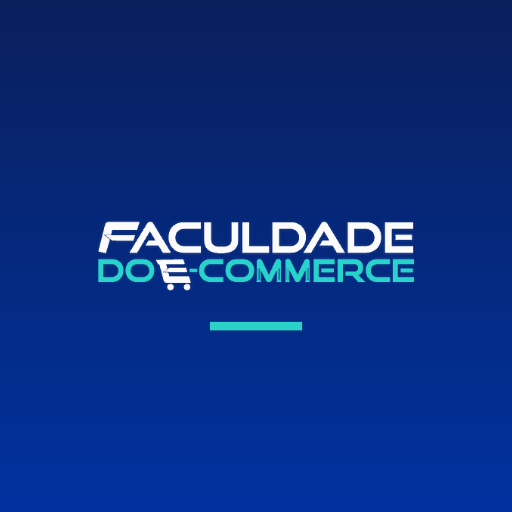
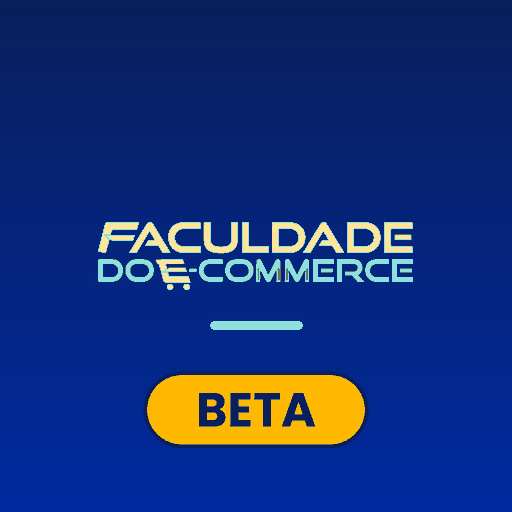
App fase 1: chamadas genericas do painel e icones BETA

Changed region(s): [[0.1875, 0.4062, 0.8125, 0.5625], [0.2812, 0.7188, 0.7188, 0.875], [0.4062, 0.625, 0.5938, 0.6562]]

diff --git a/index.html b/index.html
@@ -32,12 +32,13 @@ var META = '<meta name="viewport" content="width=device-width, initial-scale=1, 
 var SHIM = '<script>var API_FAECOM=' + JSON.stringify(API) + ';' +
   'function chamarApi_(a,x,ok,f){fetch(API_FAECOM,{method:"POST",body:JSON.stringify(Object.assign({acao:a},x))}).then(function(r){return r.json()}).then(function(j){if(j.ok)ok(j.r);else f(new Error(j.erro||"Erro"))}).catch(function(){f(new Error("Sem conexão com o servidor. Verifique a internet e tente de novo."))})}' +
   'function RunFaecom_(s,f){this.s=s||function(){};this.f=f||function(){}}' +
-  'RunFaecom_.prototype.withSuccessHandler=function(s){return new RunFaecom_(s,this.f)};' +
-  'RunFaecom_.prototype.withFailureHandler=function(f){return new RunFaecom_(this.s,f)};' +
   'RunFaecom_.prototype.login=function(u,p){chamarApi_("login",{u:u,p:p},this.s,this.f)};' +
   'RunFaecom_.prototype.atualizar=function(t){chamarApi_("atualizar",{t:t},this.s,this.f)};' +
   'RunFaecom_.prototype.salvarLogo=function(t,l,i,x){chamarApi_("salvarLogo",{t:t,lid:l,img:i,arq:x},this.s,this.f)};' +
-  'var google={script:{run:new RunFaecom_()}};' +
+  'function mkRun_(s,f){var o=new RunFaecom_(s,f);return typeof Proxy==="undefined"?o:new Proxy(o,{get:function(t,k){if(k in t)return t[k];return function(){chamarApi_("call",{f:k,args:[].slice.call(arguments)},t.s,t.f)}}})}' +
+  'RunFaecom_.prototype.withSuccessHandler=function(s){return mkRun_(s,this.f)};' +
+  'RunFaecom_.prototype.withFailureHandler=function(f){return mkRun_(this.s,f)};' +
+  'var google={script:{run:mkRun_()}};' +
   'if("serviceWorker" in navigator){navigator.serviceWorker.register("sw.js").catch(function(){})}' +
   '<\/script>';
 function montar(h) {

diff --git a/sw.js b/sw.js
@@ -1,5 +1,5 @@
 // App Faecom: guarda só a "casca" (ícones e esta página); dados e tela vêm sempre da API
-const CACHE = 'faecom-casca-v2';
+const CACHE = 'faecom-casca-v3';
 const CASCA = ['./', 'index.html', 'manifest.webmanifest', 'icon-192.png', 'icon-512.png', 'apple-touch-icon.png'];
 self.addEventListener('install', e => { e.waitUntil(caches.open(CACHE).then(c => c.addAll(CASCA))); self.skipWaiting(); });
 self.addEventListener('activate', e => { e.waitUntil(caches.keys().then(ks => Promise.all(ks.filter(k => k !== CACHE).map(k => caches.delete(k))))); self.clients.claim(); });
